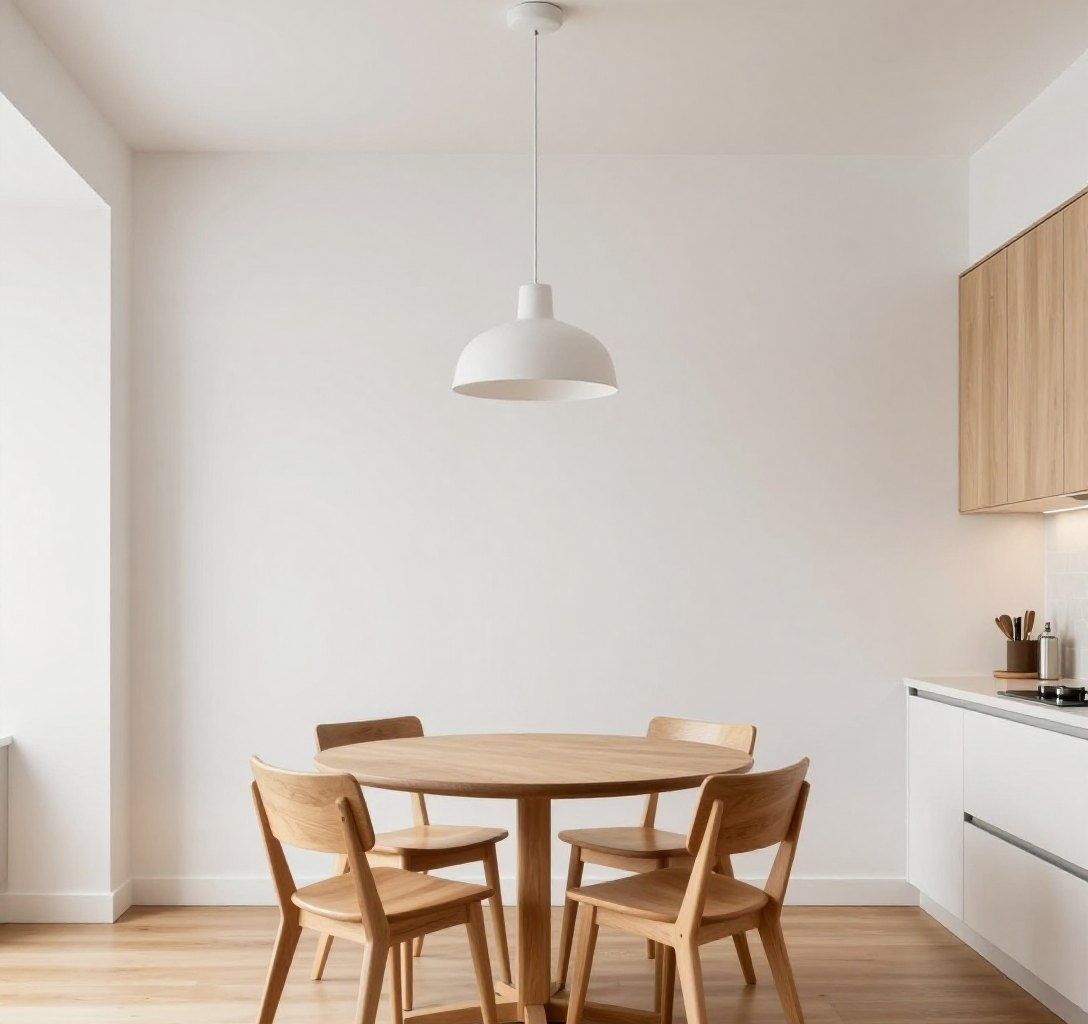
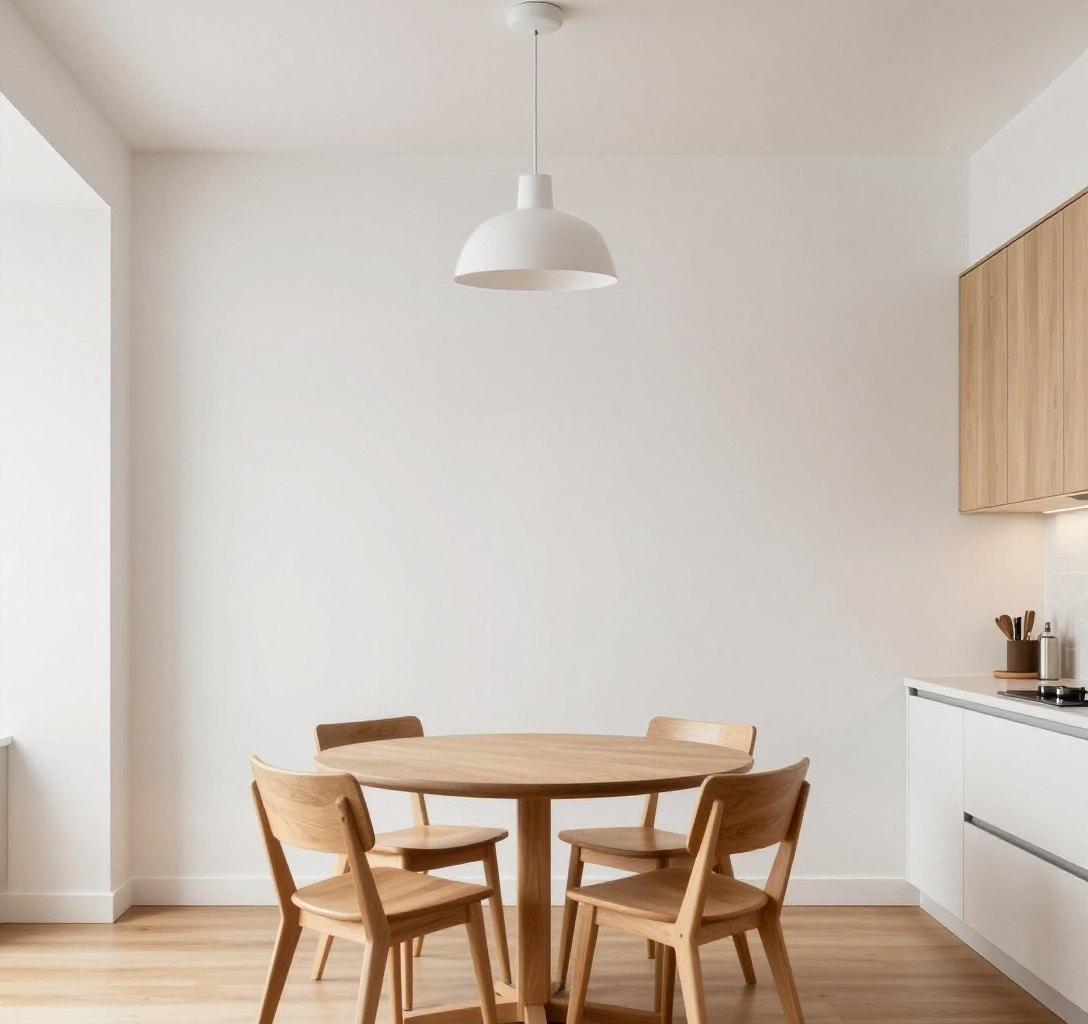
fix(ambientes): quadro do card em tamanho real com zoom na sala; recepção com pé-direito duplo; pendente da cozinha mais alto

Changed region(s): [[0.4062, 0.1562, 0.5625, 0.4062]]

diff --git a/src/components/MockupCanvas.jsx b/src/components/MockupCanvas.jsx
@@ -261,7 +261,7 @@ export const CARD_ROOMS = {
     { src: '/card_h_cama.jpg', top: 0.06, bottom: 0.67, cx: 0.49 },
     { src: '/card_h_sofa_curvo.jpg', top: 0.06, bottom: 0.71, cx: 0.51 },
     { src: '/card_h_varanda.jpg', top: 0.09, bottom: 0.69, cx: 0.46 },
-    { src: '/card_h_cozinha.jpg', top: 0.40, bottom: 0.68, cx: 0.51, livreDe: 0.40 },   // abaixo do pendente
+    { src: '/card_h_cozinha.jpg', top: 0.30, bottom: 0.68, cx: 0.51, livreDe: 0.30 },   // abaixo do pendente (subido na foto)
     { src: '/card_h_recepcao.jpg', top: 0.0, bottom: 0.69, cx: 0.50 },
     { src: '/card_h_consultorio.jpg', top: 0.0, bottom: 0.72, cx: 0.50 },
     { src: '/card_h_hall_predio.jpg', top: 0.08, bottom: 0.83, cx: 0.52 },
@@ -295,7 +295,7 @@ const CARD_INFO = {
   '/card_v_hall.jpg': { id: 'v-hall', label: 'Hall de entrada', teto: 0.055, piso: 0.945 },
   '/card_h_varanda.jpg': { id: 'h-varanda', label: 'Varanda gourmet', teto: 0.07, piso: 0.931 },
   '/card_h_cozinha.jpg': { id: 'h-cozinha', label: 'Cozinha', teto: 0.141, piso: 0.859 },
-  '/card_h_recepcao.jpg': { id: 'h-recepcao', label: 'Recepção', teto: -0.028, piso: 1.028 },
+  '/card_h_recepcao.jpg': { id: 'h-recepcao', label: 'Recepção', teto: -0.028, piso: 1.028, peDireito: 540 },  // pé-direito duplo
   '/card_h_consultorio.jpg': { id: 'h-consultorio', label: 'Consultório', teto: -0.018, piso: 1.018 },
   '/card_h_hall_predio.jpg': { id: 'h-hall-predio', label: 'Hall do prédio', teto: 0.059, piso: 0.942 },
   '/card_c_bar.jpg': { id: 'c-bar', label: 'Bar', teto: 0.03, piso: 0.90 },
@@ -305,10 +305,15 @@ const CARD_INFO = {
   '/card_c_recepcao.jpg': { id: 'c-recepcao', label: 'Recepção corporativa', teto: 0.04, piso: 0.85 },
 }
 const FOLGA_TETO_CM = 5   // o quadro (com moldura) para pelo menos 5 cm abaixo do teto
+// largura real (cm) da foto inteira da sala; peDireito próprio quando a sala é de pé-direito duplo
+function fotoCmDe(src) {
+  const { teto, piso, fotoCm, peDireito = PE_DIREITO_CM } = CARD_INFO[src]
+  return fotoCm ?? peDireito * 1088 / ((piso - teto) * 1024)
+}
 function salaDoPedido(c) {
-  const { teto, piso, fotoCm: fixo, ...info } = CARD_INFO[c.src]
+  const { teto, piso, fotoCm: _f, peDireito: _p, ...info } = CARD_INFO[c.src]
   const w = 1088, h = 1024
-  const fotoCm = fixo ?? PE_DIREITO_CM * w / ((piso - teto) * h)
+  const fotoCm = fotoCmDe(c.src)
   // parede livre começa abaixo do teto (com folga); livreDe empurra mais para baixo (ex.: abaixo do pendente)
   const top = Math.max(c.livreDe ?? 0, teto != null ? teto + FOLGA_TETO_CM * (w / fotoCm) / h : c.top)
   const left = Math.max(0.06, c.cx - 0.42), right = Math.min(0.94, c.cx + 0.42)
@@ -366,21 +371,33 @@ export function CardMockup({ urls, chave = '', frameColor = null, aspect = 0.95 
       const rA = roomImg.naturalWidth / roomImg.naturalHeight, cA = W / H
       const dw = rA > cA ? H * rA : W, dh = rA > cA ? H : W / rA
       const ox = (W - dw) / 2, oy = (H - dh) / 2
-      ctx.drawImage(roomImg, ox, oy, dw, dh)
       // faixa livre da parede no card
       const topo = oy + sala.top * dh, base = oy + sala.bottom * dh, cx = ox + sala.cx * dw
       const livreH = base - topo
       // quadro grande: vertical ≈ 88% da parede livre (máx. 62% da largura); horizontal até 74% da largura
-      let gH = vertical ? Math.min(livreH * 0.88, (W * 0.62) / grupoAsp) : Math.min(livreH * 0.80, (W * 0.74) / grupoAsp)
+      const gGrande = vertical ? Math.min(livreH * 0.88, (W * 0.62) / grupoAsp) : Math.min(livreH * 0.80, (W * 0.74) / grupoAsp)
+      // ...mas do tamanho de um quadro comum de verdade na escala da sala (até 130 cm de altura no vertical, 100 cm no
+      // horizontal, 160 cm de largura do conjunto). Para o quadro seguir protagonista, a câmera chega mais perto (zoom).
+      const pxCm = dw / fotoCmDe(sala.src)
+      const gH = Math.min(gGrande, (vertical ? 130 : 100) * pxCm, (160 * pxCm) / grupoAsp)
+      const zoom = Math.min(gGrande / gH, 1.3)
       const gW = gH * grupoAsp
       const gy = base - Math.max(livreH * 0.06, (livreH - gH) * 0.5) - gH  // centrado na parede livre (no mínimo 6% acima do móvel)
       let x = Math.min(Math.max(cx - gW / 2, W * 0.04), W * 0.96 - gW)
       const gap = gapRel * gH
       const frames = []
       ratios.forEach(r => { frames.push({ fx: x, fy: gy, fw: gH * r, fh: gH }); x += gH * r + gap })
+      // zoom em volta do quadro, sem deixar borda vazia (a foto sempre cobre o card)
+      const py = (gy + gH / 2 + base) / 2   // mira entre o quadro e o móvel: os dois aparecem
+      const pivoX = frames[0].fx + gW / 2
+      const tx = Math.min(-ox * zoom, Math.max(W - (ox + dw) * zoom, pivoX - pivoX * zoom))
+      const ty = Math.min(-oy * zoom, Math.max(H - (oy + dh) * zoom, py - py * zoom))
+      ctx.setTransform(zoom, 0, 0, zoom, tx, ty)
+      ctx.drawImage(roomImg, ox, oy, dw, dh)
       // mesma moldura da miniatura do card (preta, branca ou madeira, escolhida pela obra)
       const fs = frameColor ? FRAME_STYLES[frameColor] : { ...GRID_FRAME_PALETTE[hashStr(lista[0]) % 3], inner: 'rgba(0,0,0,0.06)' }
-      drawFrames(ctx, frames, arts, fs, Math.max(3, Math.round(gH * 0.02)), false)
+      drawFrames(ctx, frames, arts, fs, Math.max(2, Math.round(2.5 * pxCm)), false)
+      ctx.setTransform(1, 0, 0, 1, 0, 0)
     }).catch(() => {})
     return () => { vivo = false; io.disconnect() }
   }, [lista.join('|'), chave, frameColor, aspect])
